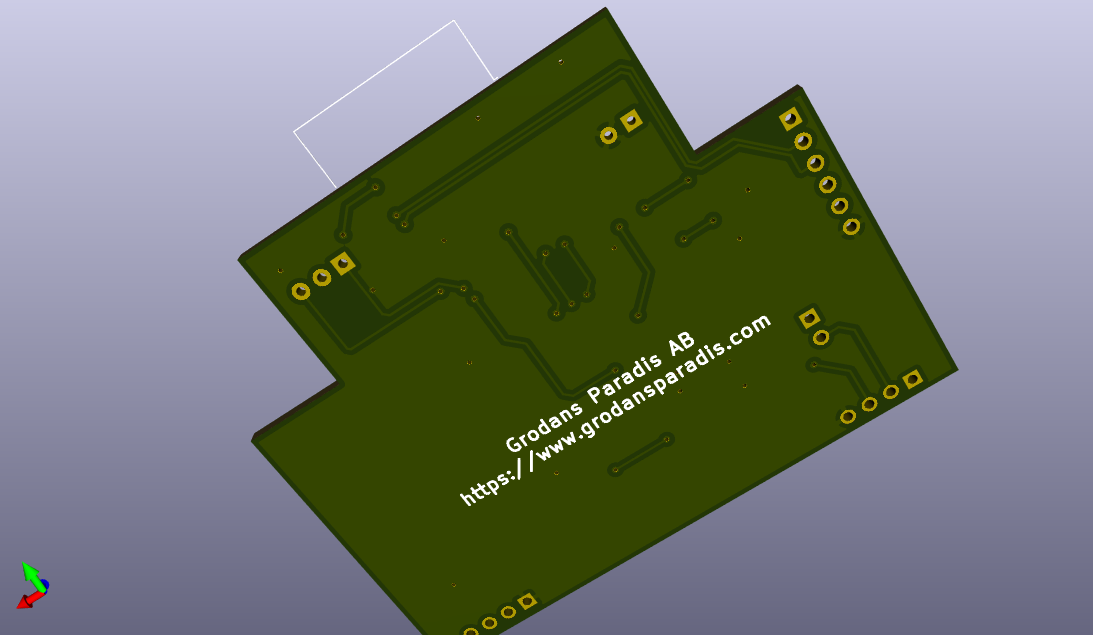
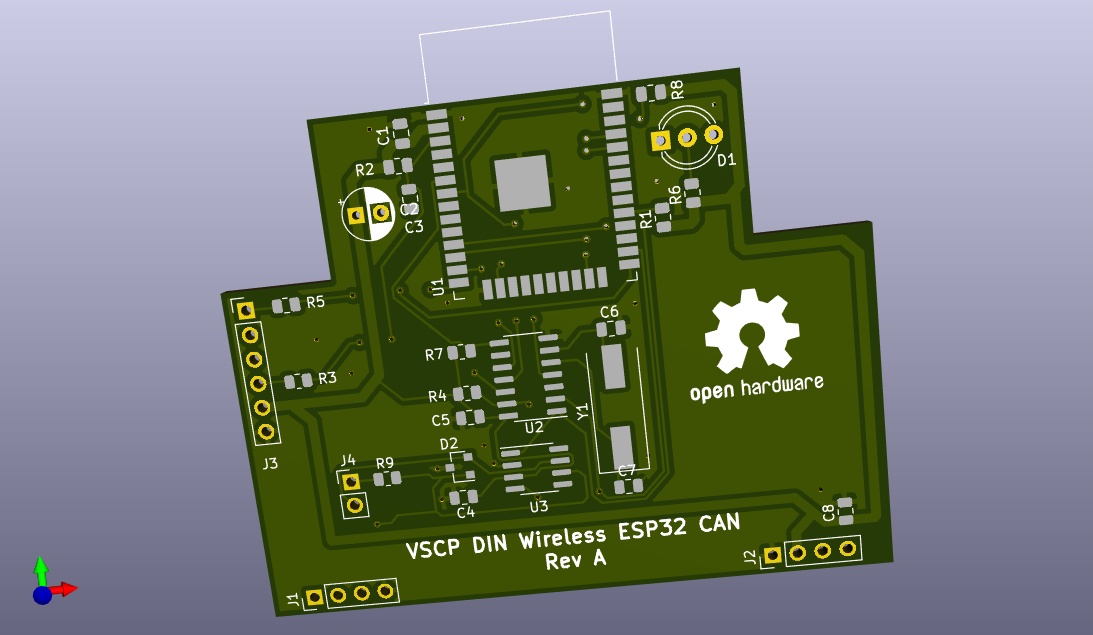
Added notes

Changed region(s): [[0.1866, 0.0, 0.871, 1.0], [0.0, 0.8677, 0.0622, 0.9575], [0.4044, 0.0299, 0.4355, 0.0598]]

diff --git a/README.md b/README.md
@@ -1,2 +1,15 @@
 # vscp-din-wireless-esp32
-ESP32 based CAN4VSCP FD controller in DIN package
+ESP32 based CAN4VSCP FD controller in a single module DIN package with BT and wifi interface.
+
+**Note!** This is still a prototype.
+
+## PCB's
+![Control Interface Top](./images/vscp-din-wireless-esp32-can-top.png)
+
+![Control Interface Bottom](./images/vscp-din-wireless-esp32-can-bottom.png) 
+
+---
+
+Part of the [VSCP Project](https://www.vscp.org).
+
+Copyright 2021 © Åke Hedman, (Grodans Paradis AB)[https://www.grodansparadis.com]
